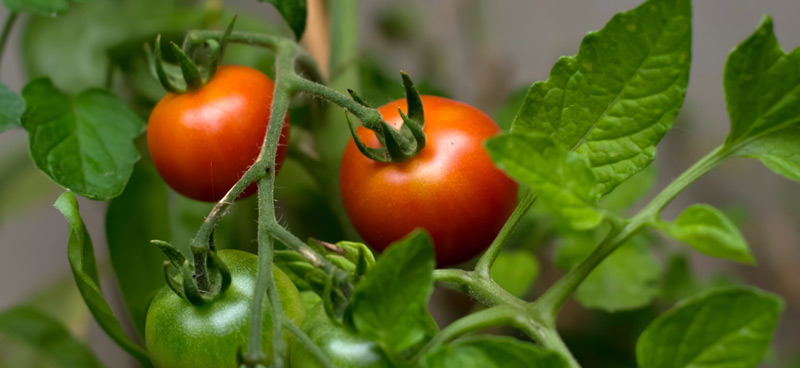
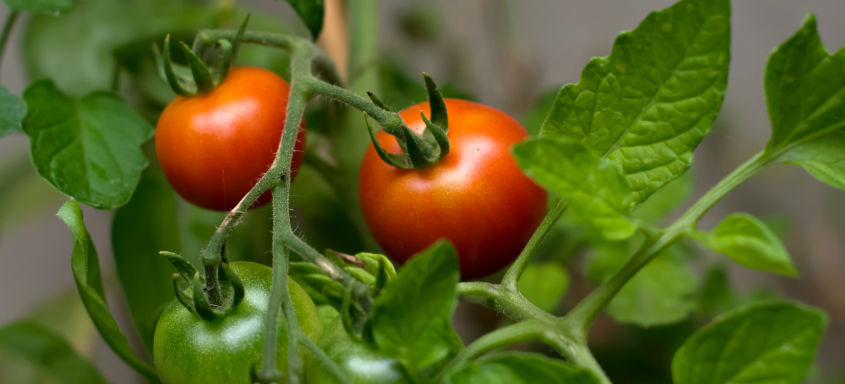
Make title images responsive by providing different sizes

diff --git a/_includes/title-image.html b/_includes/title-image.html
@@ -1,0 +1,24 @@
+{% if include.image_path %}
+    {% assign image_path_220 = include.image_path | replace_first: ".jpg", "-220.jpg" %}
+    {% assign image_path_440 = include.image_path | replace_first: ".jpg", "-440.jpg" %}
+    {% assign image_path_845 = include.image_path %}
+
+    {% if include.small == true %}
+        <!-- The small teaser has always roughly the same size so we only take
+            the screen resolution into account for choosing the right image -->
+        <img src="{{image_path_440}}"  
+            srcset="{{image_path_220}} 1x, {{image_path_440}} 2x"
+            alt="hero image {{ include.post.title | escape }}"
+            class="title-image">
+    {% else %}
+        <!-- For the big teaser we usually take the 845px image. It's fine for
+            huge screens and also for narrow displays because those usually
+            are smartphones and have a higher resolution -->
+        <img src="{{image_path_845}}"  
+            srcset="{{image_path_440}} 440w, {{image_path_845}} 845w"
+            sizes="(max-width: 500px) 440px, 845px"
+            alt="hero image {{ include.post.title | escape }}"
+            class="title-image">
+    {% endif %}
+
+{% endif %}

diff --git a/_includes/article-teaser.html b/_includes/article-teaser.html
@@ -2,17 +2,16 @@
 
 <a href="{{ include.post.url | relative_url }}" style="text-decoration: none;">
     <div>
-        {% if include.post.image %}
-        <img src="{{include.post.image}}" alt="hero image {{ include.post.title | escape }}" class="title-image">
-        {% endif %}
+        {%- include title-image.html image_path=include.post.image small=include.small -%}
+
         <h3>{{ include.post.title | escape }}</h3>
         {%- include article-meta-text.html post=include.post-%}
         
-        {% if include.show-excerpt %}
+        {% unless include.small == true %}
         <p class="excerpt">
             {{ include.post.excerpt | strip_html | truncatewords: 50 }}
         </p>
-        {% endif %}
+        {% endunless %}
     </div>
 </a>
 

diff --git a/_layouts/post.html b/_layouts/post.html
@@ -5,12 +5,10 @@ layout: default
 <div class="content-area">
   <article class="content-container" itemscope itemtype="http://schema.org/BlogPosting">
 
-    {% if page.image %}
-    <img src="{{page.image}}" alt="hero image {{ page.title | escape }}" class="title-image">
-    {% endif %}
+    {%- include title-image.html image_path=page.image -%}
 
     <h1 class="post-title" itemprop="name headline">{{ page.title | escape }}</h1>
-    
+
     {%- include article-meta.html page=page-%}
 
     <div class="post-content" itemprop="articleBody">

diff --git a/_includes/sidebar.html b/_includes/sidebar.html
@@ -41,7 +41,7 @@
                 {% unless page.title == relatedArticle.title %}
                     {% assign relatedCount = relatedCount | plus: 1 %}
                     <div class="article-teaser-small">
-                        {% include article-teaser.html post=relatedArticle %}
+                        {% include article-teaser.html post=relatedArticle small=true %}
                     </div>
                 {% endunless %}
             {% endfor %}

diff --git a/_layouts/category.html b/_layouts/category.html
@@ -12,7 +12,7 @@ layout: default
   {%- if posts.size > 0 -%}
     {%- for post in posts -%}
       <div class="article-teaser">
-        {% include article-teaser.html post=post show-excerpt=true %}
+        {% include article-teaser.html post=post %}
       </div>
     {%- endfor -%}
   {%- endif -%}

diff --git a/_layouts/home.html b/_layouts/home.html
@@ -12,7 +12,7 @@ layout: default
   {%- if site.posts.size > 0 -%}
   {%- for post in site.posts -%}
   <div class="article-teaser">
-    {% include article-teaser.html post=post show-excerpt=true %}
+    {% include article-teaser.html post=post %}
   </div>
   {%- endfor -%}
   {%- endif -%}

diff --git a/_posts/2016-03-22-from-git-flow-to-trunk-based-development.md b/_posts/2016-03-22-from-git-flow-to-trunk-based-development.md
@@ -4,7 +4,7 @@ title:  "From Git Flow to Trunk Based Development"
 author: "Robert Ecker"
 date:   2016-03-22 12:00:00 +0200
 categories: dev
-image: ../images/posts/2016-03-22-from-git-flow-to-trunk-based-development/title-image.png
+image: ../images/posts/2016-03-22-from-git-flow-to-trunk-based-development/title-image.jpg
 ---
 
 I have worked with [Git Flow](http://nvie.com/posts/a-successful-git-branching-model/) for a few years and it helped me a lot to structure my [Git](https://git-scm.com/) branches. However, I have encountered some problems with Git Flow, most of them coming from long-living branches. The solution to solve those problems is *trunk based development*! It is an amazingly simple technique which is also the base for effective continuous delivery. In this article I tell you how I have made the transition from Git Flow to trunk based development with my iOS development team at [HolidayCheck](https://www.holidaycheck.de/). You will learn what is the most important step to get there and what benefits you will get from trunk based development, so keep on reading!

diff --git a/_posts/2017-07-04-give-up-perfection.md b/_posts/2017-07-04-give-up-perfection.md
@@ -4,7 +4,7 @@ title:  "Give Up Perfection!"
 author: "Robert Ecker"
 date:   2017-07-04 12:00:00 +0200
 categories: misc
-image: ../images/posts/2017-07-04-give-up-perfection/title-image.png
+image: ../images/posts/2017-07-04-give-up-perfection/title-image.jpg
 ---
 
 I wanted to write about that topic for weeks or maybe even months. But I never started. Until now! Something was holding me back from writing this article. It was almost like a fear. Maybe the fear of not being good enough. I was not sure what exactly to write down and how to write it. I didn’t even come up with a good title for that article and without a great title I didn’t want to start writing at all. The title has to be short and crispy. It has to catch the reader’s attention! It has to seem relevant to search engines. It has to be as perfect as the whole content of the article.

diff --git a/_posts/2016-08-11-code-reviews-in-trunk-based-development.md b/_posts/2016-08-11-code-reviews-in-trunk-based-development.md
@@ -4,7 +4,7 @@ title:  "Code Reviews in Trunk Based Development"
 author: "Robert Ecker"
 date:   2016-08-11 12:00:00 +0200
 categories: dev
-image: ../images/posts/2016-08-11-code-reviews-in-trunk-based-development/title-image.png
+image: ../images/posts/2016-08-11-code-reviews-in-trunk-based-development/title-image.jpg
 ---
 
 A few months ago I published a [blog post](https://team-coder.com/from-git-flow-to-trunk-based-development/) about my team’s transition from Git Flow to trunk based development. We have found a way to get our code into the master branch very quickly. At the same time we are always ready to release our master with confidence which is the basis for our continuous delivery pipeline. We have less merge conflicts and we are able to enable or disable features at any time.

diff --git a/_posts/2015-12-17-boosting-the-quality-of-team-decisions.md b/_posts/2015-12-17-boosting-the-quality-of-team-decisions.md
@@ -4,7 +4,7 @@ title:  "Boosting the Quality of Team Decisions"
 author: "Robert Ecker"
 date:   2015-09-09 12:00:00 +0200
 categories: leadership
-image: ../images/posts/2015-12-17-boosting-the-quality-of-team-decisions/title-image.png
+image: ../images/posts/2015-12-17-boosting-the-quality-of-team-decisions/title-image.jpg
 ---
 
 There are many ways to make decisions in a team. Most teams use always the same style to decide things. Unfortunately there is not *one* way which is perfect for every situation. If you choose your decision style depending on the context you will come up with much better solutions for important questions.

diff --git a/_posts/2015-10-20-mob-programming.md b/_posts/2015-10-20-mob-programming.md
@@ -4,7 +4,7 @@ title:  "Mob Programming"
 author: "Robert Ecker"
 date:   2015-10-20 12:00:00 +0200
 categories: dev
-image: ../images/posts/2015-10-20-mob-programming/title-image.png
+image: ../images/posts/2015-10-20-mob-programming/title-image.jpg
 ---
 
 Mob Programming is like [Pair Programming](http://www.extremeprogramming.org/rules/pair.html) but even more amazing! Instead of two people working together you have a whole team “working at the same time, in the same space, at the same computer, on the same thing” ([http://mobprogramming.org](http://mobprogramming.org/)).

diff --git a/_posts/2016-02-03-how-to-establish-coding-guidelines-in-your-team.md b/_posts/2016-02-03-how-to-establish-coding-guidelines-in-your-team.md
@@ -4,7 +4,7 @@ title:  "How to Establish Coding Guidelines in Your Team"
 author: "Robert Ecker"
 date:   2016-02-03 12:00:00 +0200
 categories: leadership
-image: ../images/posts/2016-02-03-how-to-establish-coding-guidelines-in-your-team/title-image.png
+image: ../images/posts/2016-02-03-how-to-establish-coding-guidelines-in-your-team/title-image.jpg
 permalink: /establish-coding-guidelines/
 ---
 
